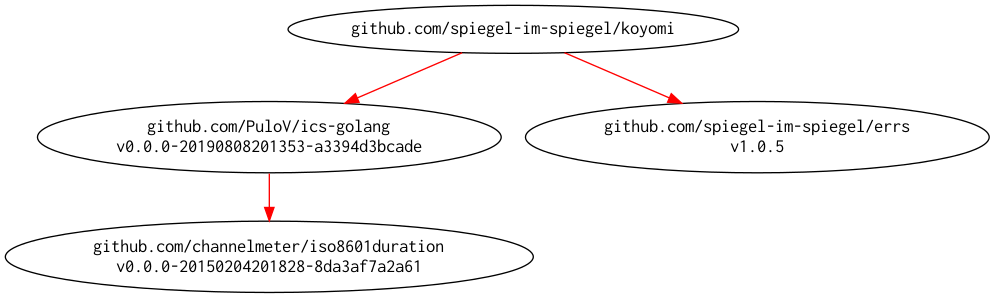
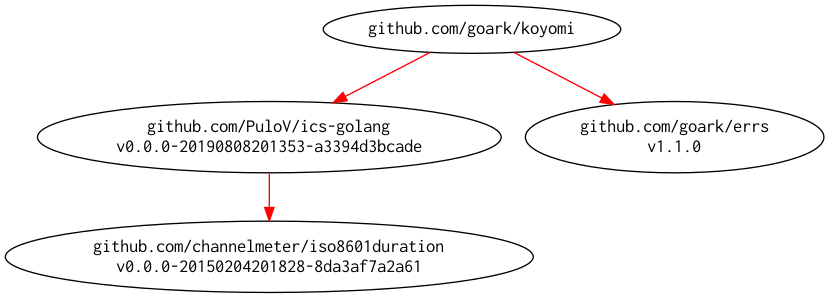
Migrated repository to github.com/goark/koyomi

diff --git a/ecode/ecode.go b/ecode/ecode.go
@@ -1,30 +1,14 @@
 package ecode
 
-import "fmt"
+import "errors"
 
-//ECode is error codes for books-data
-type ECode int
-
-const (
-	ErrNullPointer ECode = iota + 1
-	ErrNoData
-	ErrInvalidRecord
+var (
+	ErrNullPointer   = errors.New("Null reference instance")
+	ErrNoData        = errors.New("No data")
+	ErrInvalidRecord = errors.New("Invalid record")
 )
 
-var errMessages = map[ECode]string{
-	ErrNullPointer:   "Null reference instance",
-	ErrNoData:        "No data",
-	ErrInvalidRecord: "Invalid record",
-}
-
-func (e ECode) Error() string {
-	if s, ok := errMessages[e]; ok {
-		return s
-	}
-	return fmt.Sprintf("unknown error (%d)", int(e))
-}
-
-/* Copyright 2020 Spiegel
+/* Copyright 2020-2022 Spiegel
 *
 * Licensed under the Apache License, Version 2.0 (the "License");
 * you may not use this file except in compliance with the License.

diff --git a/source.go b/source.go
@@ -2,8 +2,8 @@ package koyomi
 
 import (
 	ics "github.com/PuloV/ics-golang"
-	"github.com/spiegel-im-spiegel/errs"
-	"github.com/spiegel-im-spiegel/koyomi/ecode"
+	"github.com/goark/errs"
+	"github.com/goark/koyomi/ecode"
 )
 
 //Source is information of data source for koyomi

diff --git a/events.go b/events.go
@@ -7,8 +7,8 @@ import (
 	"sort"
 	"strconv"
 
-	"github.com/spiegel-im-spiegel/errs"
-	"github.com/spiegel-im-spiegel/koyomi/ecode"
+	"github.com/goark/errs"
+	"github.com/goark/koyomi/ecode"
 )
 
 //Event is koyomi event data

diff --git a/example_test.go b/example_test.go
@@ -7,7 +7,7 @@ import (
 	"os"
 	"time"
 
-	"github.com/spiegel-im-spiegel/koyomi"
+	"github.com/goark/koyomi"
 )
 
 func ExampleKoyomi() {

diff --git a/date.go b/date.go
@@ -5,7 +5,7 @@ import (
 	"strings"
 	"time"
 
-	"github.com/spiegel-im-spiegel/errs"
+	"github.com/goark/errs"
 )
 
 var (

diff --git a/README.md b/README.md
@@ -1,9 +1,11 @@
 # [koyomi] -- 日本のこよみ
 
-[![check vulns](https://github.com/spiegel-im-spiegel/koyomi/workflows/vulns/badge.svg)](https://github.com/spiegel-im-spiegel/koyomi/actions)
-[![lint status](https://github.com/spiegel-im-spiegel/koyomi/workflows/lint/badge.svg)](https://github.com/spiegel-im-spiegel/koyomi/actions)
-[![GitHub license](https://img.shields.io/badge/license-Apache%202-blue.svg)](https://raw.githubusercontent.com/spiegel-im-spiegel/koyomi/master/LICENSE)
-[![GitHub release](https://img.shields.io/github/release/spiegel-im-spiegel/koyomi.svg)](https://github.com/spiegel-im-spiegel/koyomi/releases/latest)
+[![check vulns](https://github.com/goark/koyomi/workflows/vulns/badge.svg)](https://github.com/goark/koyomi/actions)
+[![lint status](https://github.com/goark/koyomi/workflows/lint/badge.svg)](https://github.com/goark/koyomi/actions)
+[![GitHub license](https://img.shields.io/badge/license-Apache%202-blue.svg)](https://raw.githubusercontent.com/goark/koyomi/master/LICENSE)
+[![GitHub release](https://img.shields.io/github/release/goark/koyomi.svg)](https://github.com/goark/koyomi/releases/latest)
+
+**Migrated repository to [github.com/goark/koyomi][koyomi]**
 
 「[国立天文台 天文情報センター 暦計算室](http://eco.mtk.nao.ac.jp/koyomi/)」より日本の暦情報を取得する [Go 言語]用パッケージです。 Google Calendar を経由して取得しています。
 
@@ -62,4 +64,4 @@ io.Copy(os.Stdout, bytes.NewReader(csv))
 - [日本の暦情報を取得するパッケージを作ってみた — リリース情報 | text.Baldanders.info](https://text.baldanders.info/release/2020/05/koyomi/)
 
 [Go 言語]: https://golang.org/ "The Go Programming Language"
-[koyomi]: https://github.com/spiegel-im-spiegel/koyomi "spiegel-im-spiegel/koyomi: 日本のこよみ"
+[koyomi]: https://github.com/goark/koyomi "goark/koyomi: 日本のこよみ"
